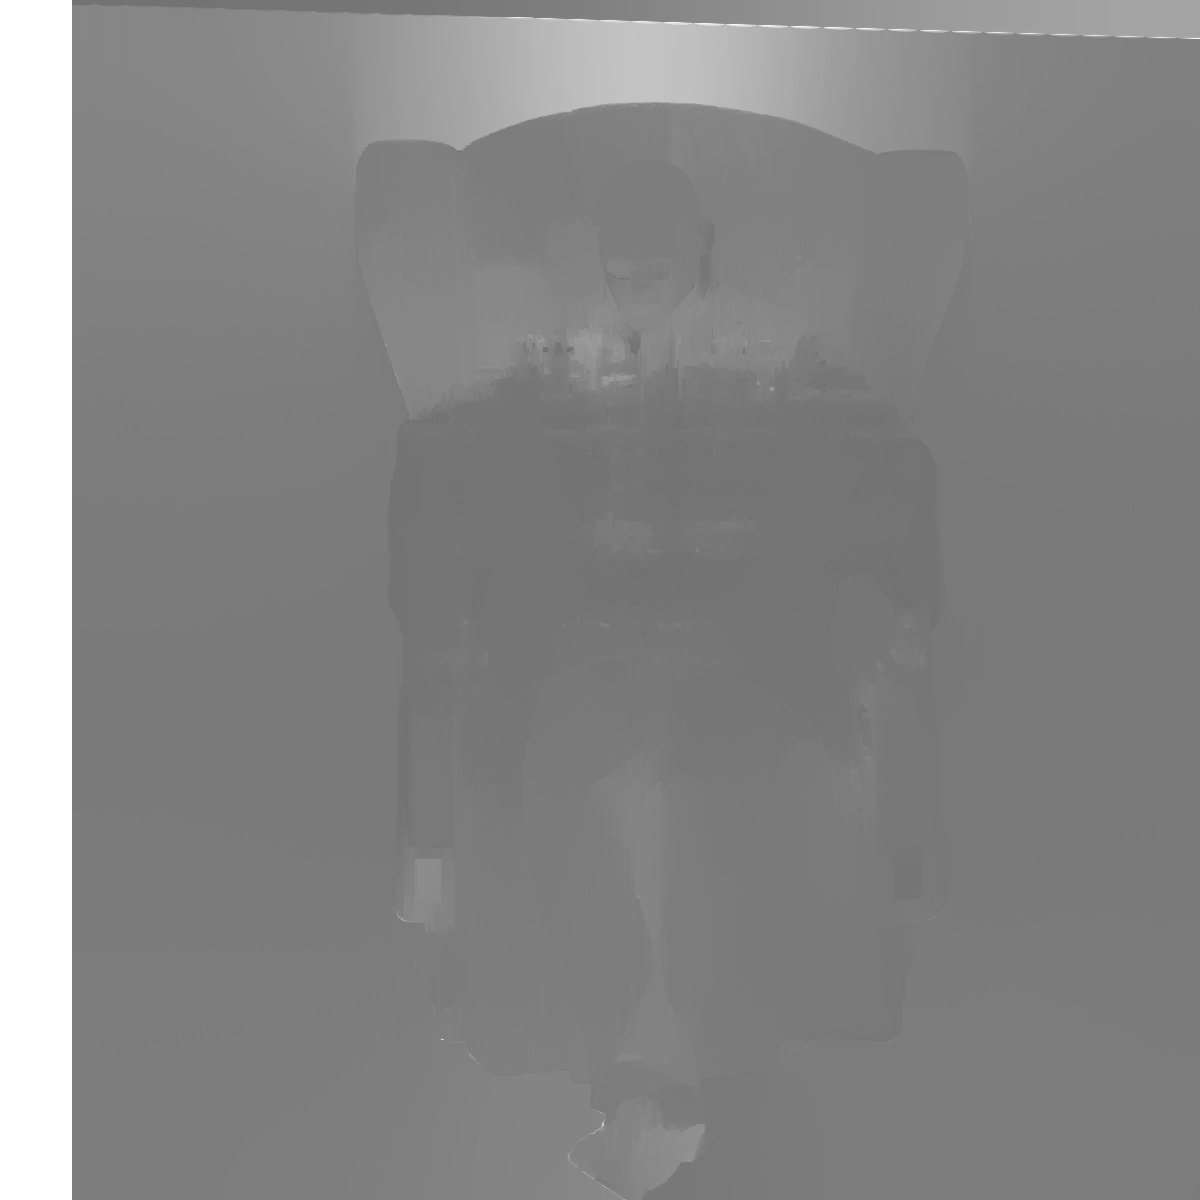
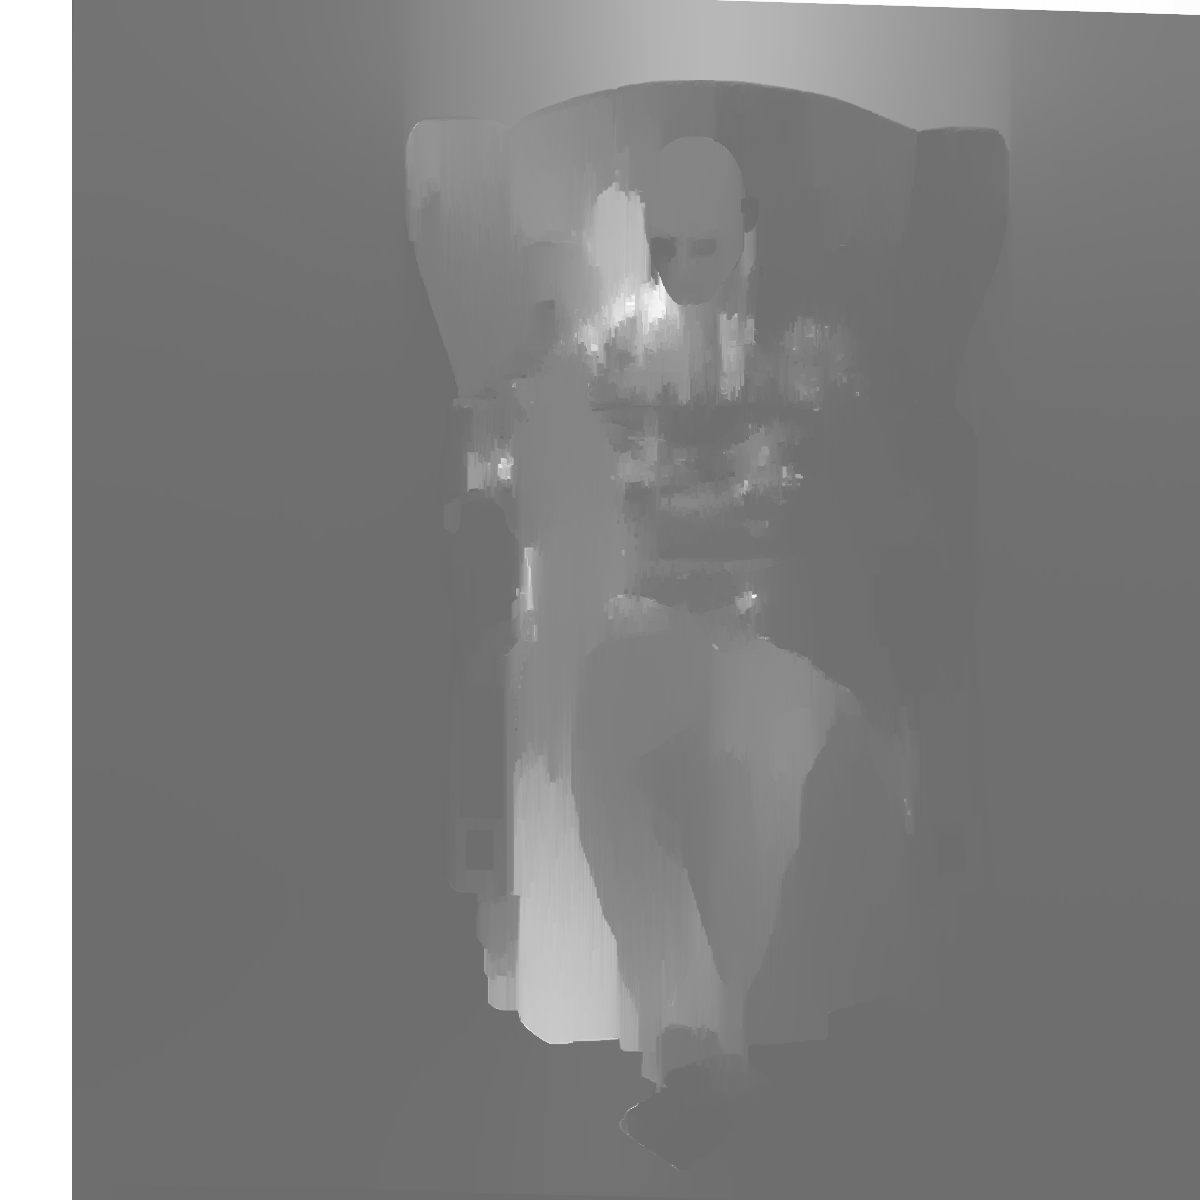
Desenvolvi mais uma função para retificar as images do requisito 2.

diff --git a/Visao_Estereo/src/functions.py b/Visao_Estereo/src/functions.py
@@ -4,6 +4,7 @@
 
 import cv2 as cv
 import numpy as np
+import matplotlib.pyplot as plt
 
 # Define a classe para a captura dos cliques
 class Capture_Click:
@@ -89,6 +90,8 @@ def image_depth (img, focal, base_line, save_dir, center_l, center_r, req):
 	doff = abs(center_l - center_r)
 	
 	Z = bline * f / (new_diff + doff)
+	plt.imshow(Z)
+	plt.show()
 	filtered_depth_image = cv.normalize(src=Z, dst=Z, beta=0, alpha=254, norm_type=cv.NORM_MINMAX)
 	filtered_depth_image = np.uint8(filtered_depth_image)
 	filtered_depth_image[filtered_depth_image == 0] = 255
@@ -212,7 +215,7 @@ def image_rectify(imgL, imgR):
 	# Based on: https://docs.opencv.org/master/dc/dc3/tutorial_py_matcher.html
 	FLANN_INDEX_KDTREE = 1
 	index_params = dict(algorithm=FLANN_INDEX_KDTREE, trees=5)
-	search_params = dict(checks=80)   # or pass empty dictionary
+	search_params = dict(checks=70)   # or pass empty dictionary
 	flann = cv.FlannBasedMatcher(index_params, search_params)
 	matches = flann.knnMatch(des1, des2, k=2)
 
@@ -225,7 +228,7 @@ def image_rectify(imgL, imgR):
 	pts2 = []
 
 	for i, (m, n) in enumerate(matches):
-		if m.distance < 0.5*n.distance:
+		if m.distance < 0.8*n.distance:
 			# Keep this keypoint pair
 			matchesMask[i] = [1, 0]
 			good.append(m)
@@ -236,11 +239,11 @@ def image_rectify(imgL, imgR):
 	# Still based on: https://docs.opencv.org/master/dc/dc3/tutorial_py_matcher.html
 	draw_params = dict(matchColor=(0, 255, 0),
 					singlePointColor=(255, 0, 0),
-					matchesMask=matchesMask[300:500],
+					matchesMask=matchesMask,
 					flags=cv.DrawMatchesFlags_DEFAULT)
 
 	keypoint_matches = cv.drawMatchesKnn(
-		imgL, kp1, imgR, kp2, matches[300:500], None, **draw_params)
+		imgL, kp1, imgR, kp2, matches, None, **draw_params)
 	cv.namedWindow('Keypoint matches', cv.WINDOW_NORMAL)
 	cv.resizeWindow('Keypoint matches', (500,600))
 	cv.imshow("Keypoint matches", keypoint_matches)
@@ -315,8 +318,8 @@ def image_rectify(imgL, imgR):
 	# cv.imwrite("cropped_imgL.jpg", crop_imgL)
 	# cv.imwrite("cropped_imgR.jpg", crop_imgR)
 
-	crop_imgR = cv.cvtColor(crop_imgR, cv.COLOR_BGR2GRAY)
-	crop_imgL = cv.cvtColor(crop_imgL, cv.COLOR_BGR2GRAY)
+	imgR_rectified = cv.cvtColor(imgR_rectified, cv.COLOR_BGR2GRAY)
+	imgL_rectified = cv.cvtColor(imgL_rectified, cv.COLOR_BGR2GRAY)
 
 	return imgL_rectified, imgR_rectified
 
@@ -365,20 +368,6 @@ def rectify_images(imgL, imgR, calibL, calibR, req):
 	# Calculate new parameters of rotation and projection
 	# https://docs.opencv.org/3.4/d9/d0c/group__calib3d.html#ga617b1685d4059c6040827800e72ad2b6
 	R1, R2, P1, P2, Q, Roi1, Roi2 = cv.stereoRectify(matrixK_L, distL, matrixK_R, distR, (h, w), R, T)
-	
-	diagonal = int(np.sqrt(imgL.shape[1]**2 + imgL.shape[0]**2))
-	black_img = np.uint8(np.full((diagonal, diagonal, 3), 0))
-
-	yoff = round((diagonal-imgL.shape[0])/2)
-	xoff = round((diagonal-imgL.shape[1])/2)
-
-	# Attempt to rotate without cropping
-	# Based on: https://stackoverflow.com/questions/30719870/rotate-image-without-cropping-opencv/30723799
-	# use numpy indexing to place the resized image in the center of black image
-	# result = black_img.copy()
-	# result2 = black_img.copy()
-	# result[yoff:yoff+imgL.shape[0], xoff:xoff+imgL.shape[1]] = imgL
-	# result2[yoff:yoff+imgL.shape[0], xoff:xoff+imgL.shape[1]] = imgR
 
 	# Manipulate the cx and cy parameters to control image crop
 	# Based on: https://stackoverflow.com/questions/53701924/how-can-you-rectify-cropped-stereo-images-in-opencv	
@@ -399,13 +388,11 @@ def rectify_images(imgL, imgR, calibL, calibR, req):
 	new_imgR = cv.remap(imgR, mapR[0], mapR[1], cv.INTER_LANCZOS4)
 
 	if req != 3:
-		cv.namedWindow('rectified imgL', cv.WINDOW_NORMAL)
-		cv.resizeWindow('rectified imgL', (439, 331))
-		cv.namedWindow('rectified imgR', cv.WINDOW_NORMAL)
-		cv.resizeWindow('rectified imgR', (439, 331))
+		cv.namedWindow('rectified 1', cv.WINDOW_NORMAL)
+		cv.resizeWindow('rectified 1', (600, 331))
 
-		cv.imshow('rectified imgL', new_imgL)
-		cv.imshow('rectified imgR', new_imgR)
+		concat = cv.hconcat([new_imgL, new_imgR])
+		cv.imshow('rectified 1', concat)
 		cv.waitKey(0)
 		cv.destroyAllWindows()
 
@@ -416,3 +403,92 @@ def rectify_images(imgL, imgR, calibL, calibR, req):
 	new_imgR = cv.cvtColor(new_imgR, cv.COLOR_BGR2GRAY)
 
 	return new_imgL, new_imgR, np.linalg.norm(T)
+
+def ultimate_rectify(calibL, calibR, d1, d2):
+
+	# Calculate the instrinsic matrix
+	matrixK_L, distL = intrinsic_matrix(calibL)
+	matrixK_R, distR = intrinsic_matrix(calibR)
+
+	# Calculate the rotation and translation vector relative
+	r_vecL, t_vecL = extrinsic_parameters(calibL)
+	r_vecR, t_vecR = extrinsic_parameters(calibR)
+	
+	extrinsic_L = np.column_stack((r_vecL, t_vecL))
+	extrinsic_R = np.column_stack((r_vecR, t_vecR))
+
+	matrixP_L = np.matmul(matrixK_L, extrinsic_L)
+	matrixP_R = np.matmul(matrixK_R, extrinsic_R)
+
+	c1 = np.dot(np.linalg.inv(matrixP_L[:, 0:3]),matrixP_L[:,3])
+	c2 = np.dot(np.linalg.inv(matrixP_R[:, 0:3]),matrixP_R[:,3])
+
+	#c1 = np.dot(-np.transpose(r_vecL), np.dot(np.linalg.inv(matrixK_L),matrixP_L[:,3]))
+	#c2 = np.dot(-np.transpose(r_vecR), np.dot(np.linalg.inv(matrixK_R),matrixP_R[:,3]))
+
+	v1 = (c1-c2)
+	v2 = np.cross(np.transpose(r_vecL[2]),v1)
+	# v2 = np.cross(r_vecL[2],v1)
+	v3 = np.cross(v1,v2)
+
+	R = np.array([np.transpose(v1)/np.linalg.norm(v1), np.transpose(v2)/np.linalg.norm(v2), 
+					np.transpose(v3)/np.linalg.norm(v3)])
+
+	A_1 = matrixK_R
+	A_1[0][1] = 0
+	A_2 = matrixK_R
+	A_2[0][1] = 0 
+
+	A_1 = (matrixK_R + matrixK_L)/2
+	A_1[0][1] = 0
+	A_2 = A_1
+	A_2[0][1] = 0   
+
+	A_1[0][2]=A_1[0][2]+d1[0]
+	A_1[1][2]=A_1[1][2]+d1[1]
+	A_2[0][2]=A_2[0][2]+d2[0]
+	A_2[1][2]=A_2[1][2]+d2[1]
+
+
+	aux1 = np.hstack((R, (np.dot(-R, c1)).reshape(3,1)))
+	aux2 = np.hstack((R, (np.dot(-R, c1)).reshape(3,1)))
+	Pn1 = np.dot(A_1, aux1)
+	Pn2 = np.dot(A_2, aux2)
+	H1 = np.dot(Pn1[:,0:3], np.linalg.inv(matrixP_L[:, 0:3]))
+	H2 = np.dot(Pn2[:,0:3], np.linalg.inv(matrixP_R[:, 0:3]))
+
+	return H1, H2, matrixP_L, matrixP_R, np.linalg.norm(v1)
+
+def ultimate_warp_images(imgL, imgR, calibL, calibR):
+	d1 = [0, 0]
+	d2 = [0, 0]
+
+	H1, H2, matrixP_L, matrixP_R, base = ultimate_rectify(calibL, calibR, d1, d2)
+
+	aux1 = [imgL.shape[0], imgL.shape[1], 1]
+	aux2 = [imgR.shape[0], imgR.shape[1], 1]
+	p_aux1 = np.matmul(H1, aux1)
+	p_aux2 = np.matmul(H2, aux2)
+	d1 = [aux1[0] - p_aux1[0]//aux1[2], aux1[1] - p_aux1[1]//aux1[2]]
+	d2 = [aux2[0] - p_aux2[0]//aux2[2], aux2[1] - p_aux2[1]//aux2[2]]
+	d1[1] = d2[1]
+
+	H1, H2, matrixP_L, matrixP_R, base = ultimate_rectify(calibL, calibR, d1, d2)
+
+	ret1 = cv.warpPerspective(imgL, H1, (3000, 3000))
+	ret2 = cv.warpPerspective(imgR, H2, (3000, 3000))
+
+	ret1 = ret1[140:1340, 1800:3000]
+	ret2 = ret2[134:1334, 0:1200]
+
+	cv.namedWindow('retified', cv.WINDOW_NORMAL)
+	cv.resizeWindow('retified', (600, 331))
+
+	concat = cv.hconcat([ret1, ret2])
+	cv.imshow('retified', concat)
+	cv.waitKey(0)
+
+	ret1 = cv.cvtColor(ret1, cv.COLOR_BGR2GRAY)
+	ret2 = cv.cvtColor(ret2, cv.COLOR_BGR2GRAY)
+
+	return ret1, ret2, base

diff --git a/Visao_Estereo/src/visao_estereo.py b/Visao_Estereo/src/visao_estereo.py
@@ -78,17 +78,16 @@ def second_requirement():
 	calib_dataL = f.data_reader(os.path.join(data, 'MorpheusL.txt'))
 	calib_dataR = f.data_reader(os.path.join(data, 'MorpheusR.txt'))
 	req = 2		
-	#imgL = f.resize_image(imgL, imgR)
-	#new_imgL, new_imgR = f.image_rectify(imgL, imgR)
 	imgL = imgL[0:1200, 0:1200]
-	print(imgL.shape)
+	#new_imgL, new_imgR = f.image_rectify(imgL, imgR)
+	new_imgL, new_imgR, base_line = f.ultimate_warp_images(imgL, imgR, calib_dataL, calib_dataR)
 
-	new_imgL, new_imgR, base_line = f.rectify_images(imgL, imgR, calib_dataL, calib_dataR, req)
+	# new_imgL, new_imgR, base_line = f.rectify_images(imgL, imgR, calib_dataL, calib_dataR, req)
 
 	# Calcula o mapa de disparidade e de profundidade
 	print('Calculating disparity map...', flush=True)
-	window_size = 15**2
-	block = 2
+	window_size = 5**2
+	block = 3
 	filteredImg = f.disparity_calculator(new_imgL, new_imgR, 8, 16*4, window_size, block)
 
 	# Redimensiona a imagem para uma melhor visualização
@@ -104,14 +103,13 @@ def second_requirement():
 	cam_translationL = [calib_dataL[14], calib_dataL[15], calib_dataL[16]]
 	cam_translationR = [calib_dataR[14], calib_dataR[15], calib_dataR[16]]
 
-	diff_vec = np.array(cam_translationL) - np.array(cam_translationR)
-	baseline = np.linalg.norm(np.array(diff_vec))
+	# diff_vec = np.array(cam_translationL) - np.array(cam_translationR)
+	# baseline = np.linalg.norm(np.array(diff_vec))
 	focal_length = (calib_dataL[0] + calib_dataL[1])/2
 	center_l = calib_dataL[2]
 	center_r = calib_dataR[2]
 
-	print('Baseline for MorpheusL image can be estimated as: ', baseline, flush=True)
-
+	# print('Baseline for MorpheusL image can be estimated as: ', baseline, flush=True)
 	# Calcula o mapa de profundidade e o salva no diretório especificado
 	print('Calculating depth map...', flush=True)
 	f.image_depth(filteredImg, focal_length, base_line, os.path.join(data,'profundidade.png'), center_l, center_r, req)
